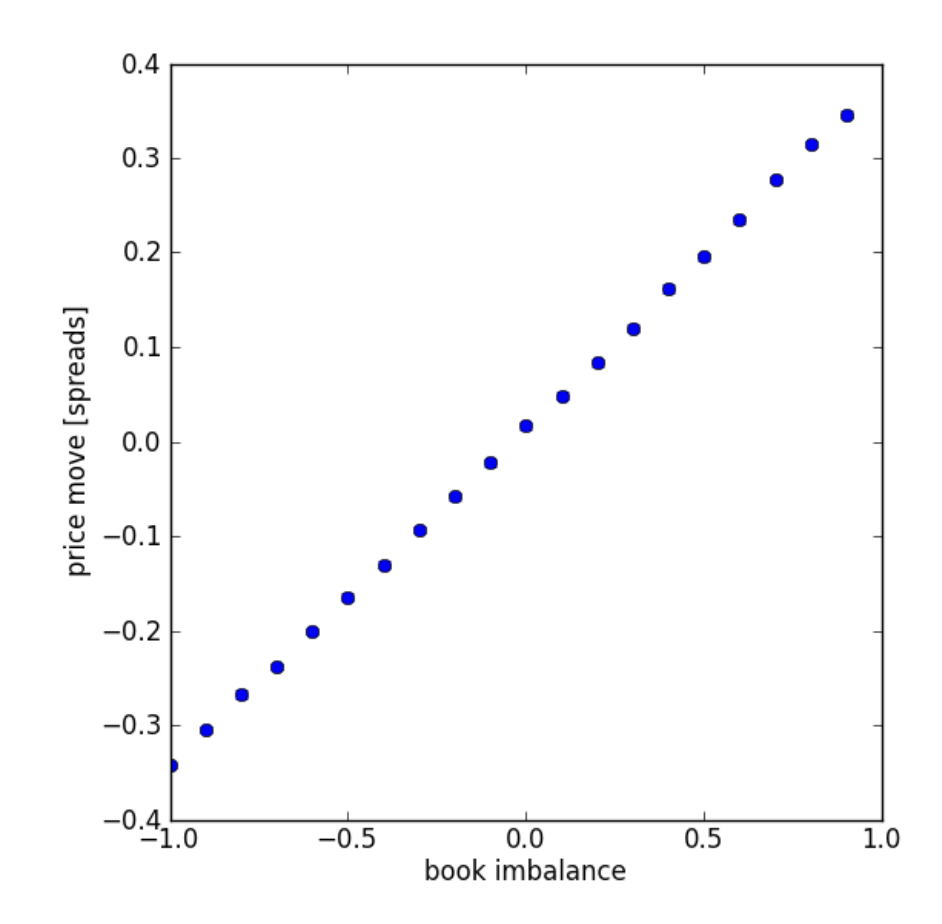
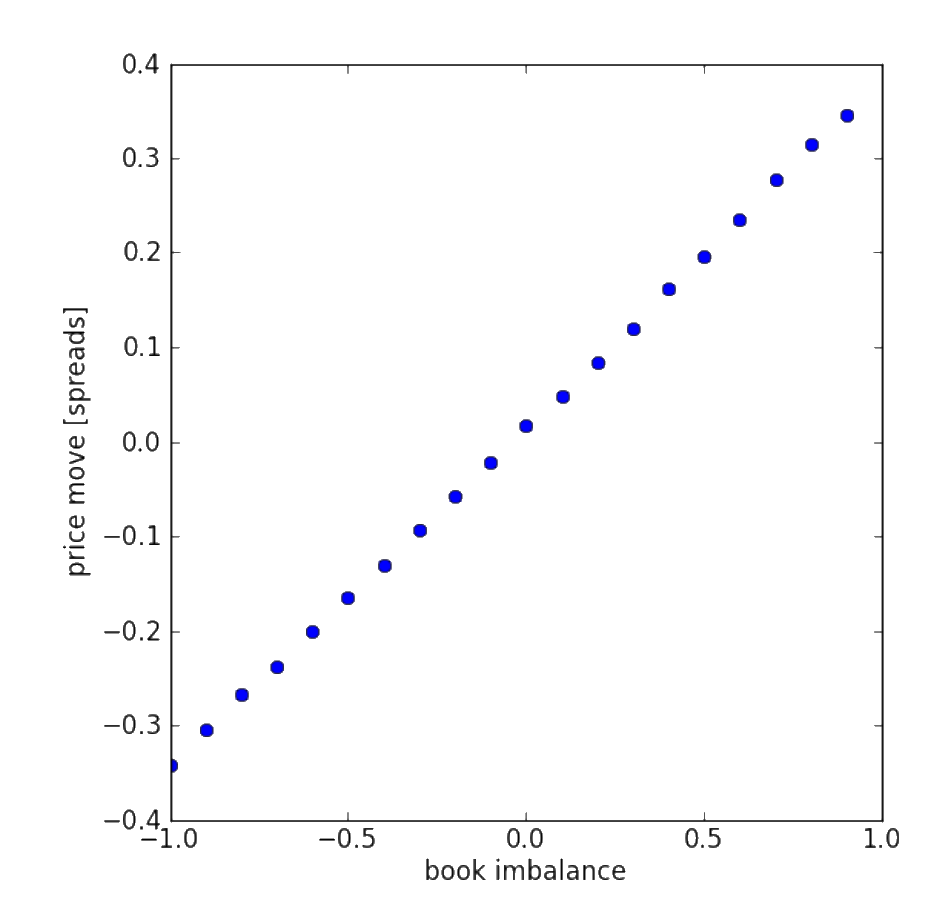
udpate

diff --git a/content/papers/key-insights-limit-order-book/index.md b/content/papers/key-insights-limit-order-book/index.md
@@ -24,7 +24,7 @@ Mauris in iaculis risus. Nam auctor blandit velit. Nulla condimentum diam diam, 
 
 # Volume imbalance
 
-The key idea when analysing the limit order book is to identify whether the market as a whole wants to buy more or sell more. This idea is call **volume imbalance**. If 
+The key idea when analysing the limit order book is to identify whether the market as a whole is leaning more towards buying or selling. This idea is call **volume imbalance**. 
 
 Volume imbalance at time \\(t\\) is defined as [^Cartea-2018] [^Lipton-2013] [^Cartea-2015]:
 $$
@@ -32,13 +32,13 @@ $$
 $$
 where \\(V_t^b\\) is the volume at time \\(t\\) posted at the best bid and \\(V_t^a\\) the volume at the best ask. We can interpret a \\(\rho_t\\) close to 1 as signalling strong buying pressure and a \\(\rho_t\\) close to -1 as strong selling pressure. This only takes into account the volume posted at the best bid and ask, the L1 order book.
 
-Lipton et. al. [^Lipton-2013] compared the price imbalance with the subsequent price move normalised by the spread. The following figure is copied from their paper:
+Lipton et. al. [^Lipton-2013] compared the price imbalance with the subsequent price normalised by the spread. The following figure is copied from their paper:
 
-{{<figure width="small" src="imbalance_vs_spread_move.png" title="Volume imbalance vs price move.">}}
-This figure shows the bucketed volume imblanace vs the average future price move normalised by the spread. The dataset is the flow of orders for [Vodafone (VOD.L)](https://finance.yahoo.com/quote/VOD.L/) during the first quarter of 2012. There appears to be a linear relationship between the level 1 order imbalance and future price moves. However, on average, the future price move is within the bid-ask spread.
+{{<figure width="medium" src="imbalance_vs_spread_move.png" title="Volume imbalance vs price move.">}}
+This figure shows the bucketed volume imblanace (x axis) vs the average future price move normalised by the spread (y axis). The dataset is the flow of orders for [Vodafone (VOD.L)](https://finance.yahoo.com/quote/VOD.L/) during the first quarter of 2012. There appears to be a linear relationship between the level 1 order imbalance and future price moves. However, on average, the future price move is within the bid-ask spread.
 {{</figure>}}
 
-The volume imbalance \\(\rho_t\\) can be segmented into three intervals for easy labelling:
+A key paper split the volume imbalance \\(\rho_t\\) into the following three segments [^Cartea-2018]:
 
 | Interval                                         | Label      |
 |--------------------------------------------------|------------|
@@ -46,11 +46,81 @@ The volume imbalance \\(\rho_t\\) can be segmented into three intervals for easy
 | \\(-\frac{1}{3} \geq \rho_t \geq \frac{1}{3} \\) | Neutral    |
 | \\(\frac{1}{3} \gt \rho_t \geq 1 \\)             | Buy-heavy  |
 
-Key insighte from [^Cartea-2018]:
+The authors found that these segments predicted future price moves. The following figure is copied from their paper:
 
 {{<figure src="volume_imbalance_performance_trans.png" title="Predictive power of volume imbalance." >}}
-**(a)** The tick by tick order book for [Intel (INTC)](https://finance.yahoo.com/quote/INTC) was analysed over the period January 2014 to December 2014. For each arriving market order (MO), the volume imbalance was recorded and segmented with the number of ticks that the mid price changed by over the next 10 milliseconds. The chart shows the distribution of segments & mid price changes. We can see that when the order book is buy-heavy then positive changes are much more likely than negative changes and vice versa for a sell-heavy order book. **(b)** These results are replicated for [Oracle (ORCL)](https://finance.yahoo.com/quote/ORCL).
+**(a)** The tick by tick order book for [Intel (INTC)](https://finance.yahoo.com/quote/INTC) was analysed over the period January 2014 to December 2014. For each arriving market order (MO), the volume imbalance was recorded and segmented with the number of ticks that the mid price changed by over the next 10 milliseconds. The chart shows the distribution of segments & mid price changes. We can see that positive price moves are more likely to have been preceded by a buy-heavy order book. Similarly, negative changes are more likely to have been preceded by a sell-heavy book. **(b)** These results are replicated for [Oracle (ORCL)](https://finance.yahoo.com/quote/ORCL).
 {{</figure>}}
+
+# Order flow imbalance
+
+Volume imblance looks at the total amount of volume in the limit order book. A draw back is that some of this volume may come from orders that are old and contain less relavant information. We can instead look at the volume of recent orders. This idea is call **order flow imbalance**. You can do this by either tracking individual market and limit orders which requires level 3 data. Or, you can look at the changes in the limit order book.
+
+Because level 3 data is expensive and usually only available to institutional traders, we'll focus on the changes in the limit order book.
+
+We can calculate order flow imbalance by finding out how much volume has moved at the best bid and ask prices [^Xu-2019]. The change in volume at the best bid is given by:
+$$
+\begin{aligned}
+\Delta V_t^b = \begin{cases}
+V_t^b, & \text{if} \ P_t^b > P\_{t-1}^b \\\
+V_t^b - V\_{t-1}^b, & \text{if} \ P_t^b = P\_{t-1}^b \\\
+-V\_{t-1}^b, & \text{if} \ P\_t^b < P_{t-1}^b \\\
+\end{cases}
+\end{aligned}
+$$
+This is a function of three cases. The **first case** says that if the best bid is higher than the previous best bid, then all the volume is new volume:
+
+{{<figure src="case_1.svg" width="small" title="Case 1." >}}
+If the best bid is higher than the previous best bid, then all the volume is new volume.
+{{</figure>}}
+
+The **second case** says that if the best bid is the same as the previous best bid, then the new volume is the difference between the total current volume and the previous total volume.
+
+{{<figure src="case_2.svg" width="small" title="Case 2." >}}
+If the best bid is the same as the previous best bid, then the new volume is the difference between the total current volume and the previous total volume.
+{{</figure>}}
+
+The **third case** says that if the best bid is lower than the previous best bid, then all of the previous resting orders have been filled and are no longer in the order book.
+
+{{<figure src="case_3.svg" width="small" title="Case 3." >}}
+If the best bid is lower than the previous best bid, then all of the previous resting orders have been filled and are no longer in the order book.
+{{</figure>}}
+
+The calculation is similar for the change in volume at the best ask:
+$$
+\begin{aligned}
+\Delta V_t^a = \begin{cases}
+-V\_{t-1}^a, & \text{if} \ P_t^a > P\_{t-1}^a \\\
+V_t^a - V\_{t-1}^a, & \text{if} \ P_t^a = P\_{t-1}^a \\\
+V\_{t}^a, & \text{if} \ P\_t^a < P_{t-1}^a \\\
+\end{cases}
+\end{aligned}
+$$
+
+The net order flow imbalance (OFI) at time \\( t \\) is given by:
+$$
+\text{OFI}_t = \Delta V_t^{b,1} - \Delta V_t^{a,1}
+$$
+This will be positive when there are more buying orders and negative for more selling order. This measures the amount of volume as well as the direction of volume. In the previous section, volume imbalance only measured the direction, not the amount of volume.
+
+You can sum together these values to get the OFI over a time interval:
+$$
+\text{OFI}\_{t-n, t} = \sum\_{i=t-n}^t \text{OFI}_i
+$$
+
+The authors in [^Xu-2019] used a regression model to test if order flow imbalance contains information on future price moves. The following table is copied from their paper:
+
+{{<figure src="order_flow_imbalance.png" title="Predictive power of order flow imbalance." >}}
+The orde flow imbalance value was used as the input to a regression model of future price moves. Six stock were used, [Amazon (AMZN)](https://finance.yahoo.com/quote/AMZN), [Tesla (TSLA)](https://finance.yahoo.com/quote/TSLA), [Netflix (NFLX)](https://finance.yahoo.com/quote/NFLX), [Oracle (ORCL)](https://finance.yahoo.com/quote/ORCL), [Cisco (CSCO)](https://finance.yahoo.com/quote/CSCO), and [Micron (MU)](https://finance.yahoo.com/quote/MU). The fitted intercept is given by \\(\alpha\\) and the fitted coefficient for the OFI input is \\(\beta\\). In all six cases, the significant was lower than 1% showing that OFI contains information on future price moves.
+{{</figure>}}
+
+The OFI value calculated above looks at the best bid and ask. The authors in [^Xu-2019] also calcuated values for top 5 best prices giving 5 inputs instead of just 1. They found that looking deeper into the order book adds new information on future price moves.
+
+# Summary
+
+Here I've summarised the key insights from a few papers looking at order volume in a limit order book. The papers show that the order book contains information that is highly predictive of future price moves. But, these moves do not over-come the bid/ask spread.
+
+I've added links to the papers in the the reference section. Go check them out for more details.
 
 
 <!-- An introduction to Limit Order Books -->
@@ -82,4 +152,13 @@ Key insighte from [^Cartea-2018]:
     author=" Álvaro Cartea, Sebastian Jaimungal, and J. Penalva"
     title="Algorithmic and high-frequency trading."
     publication="Cambridge University Press"
+%}}
+
+{{% citation
+    id="Xu-2019"
+    author="Ke Xu, Martin D. Gould, and Sam D. Howison"
+    title="Multi-Level Order-Flow Imbalance in a Limit Order Book"
+    publication="arXiv"
+    year="2019"
+    link="https://doi.org/10.48550/arXiv.1907.06230"
 %}}
